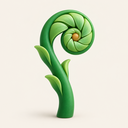
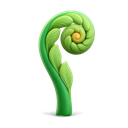
Transparent artwork on the dark page: re-render every image on the page ground and key it out; ceramic Scala hero

Changed region(s): [[0.125, 0.0312, 0.75, 0.9688]]

diff --git a/scripts/art/finish.py b/scripts/art/finish.py
@@ -6,25 +6,79 @@ hero, icon-<id>, divider, codebar, og, favicons. Raw renders are read from scrip
 <asset>.png (git-ignored), as gen.sh leaves them. `og` and `favicons` need Montserrat[wght].ttf and
 SourceSans3[wght].ttf in scripts/art/fonts/ (git-ignored; both are on github.com/google/fonts).
 
-Every render is a cream product plate; nothing is keyed out. Scenes are centre-cropped to their
-aspect and resized with Lanczos to twice their CSS size. Wide strips (divider, code-bar mark) are
-cropped around the subject's bounding box on the cream ground.
+Every render sits on the solid ground the prompt asks for; `key()` turns that ground into
+transparency. Scenes are centre-cropped to their aspect and resized with Lanczos to twice their CSS
+size. Wide strips (divider, code-bar mark) are cropped around what survived the keying.
 """
 import base64
 import io
 import sys
 from pathlib import Path
 
+import numpy as np
 from PIL import Image, ImageDraw, ImageFont
 
 S = str(Path(__file__).resolve().parent) + "/"
 P = str(Path(__file__).resolve().parents[2] / "public") + "/"
-CREAM = (244, 239, 230)
-INK = (11, 61, 46)  # deep green, the site's dark text on cream
+GROUND = (15, 36, 24)  # the solid ground every prompt asks for; keyed out below
+PAGE = (7, 22, 15)  # --bg, for the share image and favicon tiles, which cannot be transparent
+INK = (234, 244, 234)  # --fg
+MUTED = (167, 193, 174)  # --muted
 
 
 def load(name):
-    return Image.open(f"{S}gen/{name}/{name}.png").convert("RGB")
+    """The raw render, shifted so its ground is exactly GROUND: the model lands a unit or two off,
+    which would leave the keyed edge a shade off."""
+    im = Image.open(f"{S}gen/{name}/{name}.png").convert("RGB")
+    px = im.load()
+    W, H = im.size
+    edge = [px[x, y] for x in range(0, W, 8) for y in (0, H - 1)] + [px[x, y] for y in range(0, H, 8) for x in (0, W - 1)]
+    median = tuple(sorted(c[i] for c in edge)[len(edge) // 2] for i in range(3))
+    shift = tuple(GROUND[i] - median[i] for i in range(3))
+    if any(shift):
+        im = Image.merge("RGB", [ch.point(lambda v, d=d: max(0, min(255, v + d))) for ch, d in zip(im.split(), shift)])
+    return key(im)
+
+
+def key(im, t0=4, t1=48):
+    """Ground to transparency. Alpha grows with the colour distance from GROUND between t0 and t1,
+    but only in the region connected to the frame edge, so a dark pixel inside a leaf stays put.
+    The colour is un-mixed from the ground so the soft edge does not carry a green fringe; a contact
+    shadow, darker than the ground, comes out as faint black, which is what a shadow is."""
+    rgb = np.asarray(im, dtype=np.float32)
+    g = np.array(GROUND, dtype=np.float32)
+    d = np.abs(rgb - g).max(axis=2)
+    # `.copy()`: an image made from an array is read-only and floodfill then does nothing.
+    near = Image.fromarray(((d < t1) * 255).astype(np.uint8)).copy()
+    W, H = im.size
+    for x in range(0, W, 16):
+        for y in (0, H - 1):
+            if near.getpixel((x, y)) == 255:
+                ImageDraw.floodfill(near, (x, y), 128)
+    for y in range(0, H, 16):
+        for x in (0, W - 1):
+            if near.getpixel((x, y)) == 255:
+                ImageDraw.floodfill(near, (x, y), 128)
+    # Enclosed pockets of ground (a trellis opening, the inside of a hoop) are keyed too, when they
+    # are bigger than a sliver; a small dark patch inside a leaf is shading and stays.
+    pocket = W * H // 2000
+    while True:
+        rest = np.argwhere(np.asarray(near) == 255)
+        if len(rest) == 0:
+            break
+        y, x = rest[0]
+        before = (np.asarray(near) == 255).sum()
+        ImageDraw.floodfill(near, (int(x), int(y)), 64)
+        filled = before - (np.asarray(near) == 255).sum()
+        if filled > pocket:
+            ImageDraw.floodfill(near, (int(x), int(y)), 128)
+    ground = np.asarray(near) == 128
+    a = np.clip((d - t0) / (t1 - t0), 0, 1)
+    a = np.where(ground, a, 1.0)
+    safe = np.maximum(a, 1e-3)[..., None]
+    unmixed = (rgb - (1 - a)[..., None] * g) / safe
+    out = np.dstack([np.clip(unmixed, 0, 255), a * 255]).astype(np.uint8)
+    return Image.fromarray(out, "RGBA")
 
 
 def crop_aspect(im, w, h):
@@ -37,18 +91,9 @@ def crop_aspect(im, w, h):
     return im.crop((0, (H - ch) // 2, W, (H - ch) // 2 + ch))
 
 
-def subject_box(im, tol=18):
-    """Bounding box of everything that is not the cream ground."""
-    px = im.load()
-    W, H = im.size
-    xs, ys = [], []
-    for y in range(0, H, 2):
-        for x in range(0, W, 2):
-            r, g, b = px[x, y]
-            if abs(r - CREAM[0]) + abs(g - CREAM[1]) + abs(b - CREAM[2]) > tol:
-                xs.append(x)
-                ys.append(y)
-    return min(xs), min(ys), max(xs) + 1, max(ys) + 1
+def subject_box(im):
+    """Bounding box of everything that survived the keying."""
+    return im.getchannel("A").point(lambda v: 255 if v > 8 else 0).getbbox()
 
 
 def strip(im, w, h, pad):
@@ -64,7 +109,7 @@ def strip(im, w, h, pad):
         nw = bh * w // h
         x0 -= (nw - bw) // 2
         x1 = x0 + nw
-    out = Image.new("RGB", (x1 - x0, y1 - y0), CREAM)
+    out = Image.new("RGBA", (x1 - x0, y1 - y0), (0, 0, 0, 0))
     out.paste(im, (-x0, -y0))
     return out.resize((w, h), Image.LANCZOS)
 
@@ -101,32 +146,35 @@ def font(file, size, weight):
 
 
 def og():
-    """1200x630: the hero plate on the left, the title and tagline on the right."""
-    art = Image.open(f"{P}art/hero.png").convert("RGB").resize((520, 520), Image.LANCZOS)
-    out = Image.new("RGB", (1200, 630), CREAM)
-    out.paste(art, (40, 55))
+    """1200x630: the hero on the left, the title and tagline on the right, on the page colour."""
+    art = Image.open(f"{P}art/hero.png").convert("RGBA").resize((520, 520), Image.LANCZOS)
+    out = Image.new("RGB", (1200, 630), PAGE)
+    out.paste(art, (40, 55), art)
     d = ImageDraw.Draw(out)
     title = font("Montserrat[wght].ttf", 64, 700)
     sub = font("SourceSans3[wght].ttf", 34, 400)
     x, y = 590, 190
     d.text((x, y), "VirtusLab", font=title, fill=INK)
     d.text((x, y + 76), "Scala Stack", font=title, fill=INK)
-    d.text((x, y + 172), "Direct-style Scala: type-safe code", font=sub, fill=(70, 90, 80))
-    d.text((x, y + 214), "that is easy to comprehend and generate.", font=sub, fill=(70, 90, 80))
+    d.text((x, y + 172), "Direct-style Scala: type-safe code", font=sub, fill=MUTED)
+    d.text((x, y + 214), "that is easy to comprehend and generate.", font=sub, fill=MUTED)
     save(out, "og.png")
 
 
 def favicons():
-    """The logo part of the hero, square, on the cream plate: 32 PNG, 180 apple, 64 in the SVG."""
+    """The wooden-slab mark of the hero, square, on a page-coloured tile: 32 PNG, 180 apple, 64 in
+    the SVG. The branch is left out: at 32px it would be a smudge across the mark."""
     src = load("hero")
-    # The lower half only: the wooden bars are the mark, the thin branch would be a smudge at 32px.
-    W, H = src.size
-    x0, y0, x1, y1 = subject_box(src.crop((0, H * 45 // 100, W, H)))
-    y0, y1 = y0 + H * 45 // 100, y1 + H * 45 // 100
-    side = max(x1 - x0, y1 - y0) + 80
+    a = np.asarray(src)
+    # The slabs are the only pale material in the render.
+    pale = (a[..., 3] > 128) & (a[..., :3].min(axis=2) > 170)
+    ys, xs = np.nonzero(pale)
+    x0, y0, x1, y1 = xs.min(), ys.min(), xs.max() + 1, ys.max() + 1
+    side = max(x1 - x0, y1 - y0) + 60
     cx, cy = (x0 + x1) // 2, (y0 + y1) // 2
-    tile = Image.new("RGB", (side, side), CREAM)
-    tile.paste(src, (side // 2 - cx, side // 2 - cy))
+    mark = src.crop((x0 - 20, y0 - 20, x1 + 20, y1 + 20))
+    tile = Image.new("RGB", (side, side), PAGE)
+    tile.paste(mark, (side // 2 - (cx - x0 + 20), side // 2 - (cy - y0 + 20)), mark)
     save(tile.resize((32, 32), Image.LANCZOS), "favicon-32.png")
     save(tile.resize((180, 180), Image.LANCZOS), "apple-touch-icon.png")
     buf = io.BytesIO()

diff --git a/docs/art-direction.md b/docs/art-direction.md
@@ -1,14 +1,16 @@
 # Art direction
 
-Every illustration is a rendered PNG on its own solid cream ground, a "plate", exported at exactly
-2x its CSS size and given its corners by the shared `.plate` class. `docs/design-direction.md` still
-governs the interface; this file governs the images.
+Every illustration is a transparent PNG exported at exactly 2x its CSS size: rendered on a solid
+`#0f2418` ground and keyed to transparency by the finishing script, so the subject and its soft
+shadow sit directly on the page. `docs/design-direction.md` still governs the interface; this file
+governs the images.
 
 ## Theme
 
 Trees and plants. Clean 3D computer graphics: sharp, simple, a product-render look under soft studio
-light. VirtusLab greens, warm wood, on a cream `#f4efe6` ground. No text, logos, people, animals or
-mascots.
+light. VirtusLab greens, warm wood, pale `#f4efe6` as a light material, rendered on a solid `#0f2418`
+ground that is keyed out, leaving only the subject and its contact shadow. No text, logos, people,
+animals or mascots.
 
 ## Assets
 
@@ -28,8 +30,8 @@ mascots.
 | `public/art/icon-devops.png` | 128×128 | 64×64 | trellis with a climbing vine |
 | `public/art/divider.png` | 640×96 | 320×48 | a horizontal branch with leaves |
 | `public/art/codebar.png` | 132×44 | 66×22 (`--mark`) | a three-leaf sprig |
-| `public/og.png` | 1200×630 | share card | the hero plate plus the title set in Montserrat |
-| `public/favicon.svg`, `favicon-32.png`, `apple-touch-icon.png` (180) | — | favicons | the logo part of the hero on a cream tile |
+| `public/og.png` | 1200×630 | share card | the hero render plus the title set in Montserrat, on the page colour `#07160f` |
+| `public/favicon.svg`, `favicon-32.png`, `apple-touch-icon.png` (180) | — | favicons | the slab mark of the hero, branch left out, on a `#07160f` tile |
 
 ## Process
 
@@ -37,9 +39,13 @@ Everything lives in `scripts/art/`: `theme.md` is the block every prompt starts 
 the subject of each image, `gen.sh <asset> <WxH>` one render through the Codex CLI's image tool into
 the git-ignored `gen/`, and `finish.py <asset>...` the step from a raw render to `public/`: centre-crop
 to the target aspect, Lanczos-resize to 2x; the divider and code bar are first cropped around the
-subject's bounding box on the cream ground. `og` composes the hero plate with the title in Montserrat
-and `favicons` cuts the logo part of the hero onto a cream tile (both need the two variable fonts in
-`fonts/`, see the script). Renders come out at 1024 or 1536 on the long side.
+subject's bounding box after keying. `og` composes the hero render with the title in Montserrat
+and `favicons` cuts the slab mark of the hero onto a `#07160f` tile (both need the two variable fonts
+in `fonts/`, see the script). Renders come out at 1024 or 1536 on the long side.
+
+- `finish.py` keys the ground out: alpha comes from each pixel's colour distance to the ground, the
+  ground's contribution is un-mixed from the colour, and only regions connected to the border are
+  keyed, so interior pixels near the ground colour stay opaque.
 
 Each benefit concept came from a fresh ideation agent given only the theme, the subject and a
 random-string inspiration procedure; a critique agent then revised it. The prompt files are the
@@ -49,6 +55,6 @@ result.
 
 - Reads at its final CSS size.
 - One subject, nothing else in the frame.
-- Solid cream ground, edge to edge.
+- Rendered on the solid ground, nothing touching the frame edge except the divider's branch.
 - No text.
 - On theme: trees and plants, the render look, the palette.

diff --git a/docs/design-direction.md b/docs/design-direction.md
@@ -8,7 +8,7 @@ and no hex appears outside that file.
 Forest green, VirtusLab's. Clean geometry and a lot of empty space on a deep forest green-black
 ground, bright VL green as the signature accent, amber used sparingly. Dark only: no light
 variant, whatever the OS asks for. The interface is clean and modern; the artwork is clean 3D
-renders of trees and plants on cream plates, so the two share one register. One soft shadow, one
+renders of trees and plants sitting directly on the page, so the two share one register. One soft shadow, one
 green rule.
 
 ## Chapters
@@ -23,10 +23,10 @@ the gutter never changes; below 720px the illustration stacks above.
 
 ## The motif: trees and plants
 
-Wood and leaves are already the palette: VirtusLab greens and warm wood on a cream ground. Growth,
+Wood and leaves are already the palette: VirtusLab greens and warm wood on the forest ground. Growth,
 grafting and pruning give every benefit a concrete subject. The motif carries the hero (the Scala
 logo as stacked wooden bars with a branch growing from it), the six section icons, the five benefit
-plates, the code panel's mark and the favicon — not the Visdom block, which is no part of the free
+illustrations, the code panel's mark and the favicon — not the Visdom block, which is no part of the free
 stack.
 
 ## Palette
@@ -47,7 +47,7 @@ Grounds: `--bg` `#07160f`, `--surface` `#0f2418`. `--on-accent` on a solid `--ac
 hovered cell `--surface-2-hover` `#1b3f29`; on the worse of the two, `--muted` is 6.08 and
 `--accent` 7.22.
 
-The artwork has no tokens: each plate carries its own colours and nothing recolours it. Text on
+The artwork has no tokens: each image carries its own colours and nothing recolours it. Text on
 the two `--ground` washes clears 4.5:1 too (worst 7.79, `--muted` on `#062d19`).
 
 ## Type
@@ -65,8 +65,8 @@ the two `--ground` washes clears 4.5:1 too (worst 7.79, `--muted` on `#062d19`).
 - Spacing `4 / 8 / 16 / 28 / 48 / 72`px. Borders `--border` 1px, `--border-thick` 2px (also the focus
   ring), `--rule` 3px for the green mark. Page container 62rem. Sizes are tokens too.
 - Radius `--radius-sm` 8, `--radius` 14, `--radius-pill`, and `--radius-lg` 26 on the code panel
-  alone. Nothing has a square corner: the artwork takes `--radius` through `.plate`, the section
-  icons `--radius-sm`. Illustration sizes: `--icon` 64, `--mark` 22.
+  alone. Nothing has a square corner; the artwork is transparent and has none to round. Illustration
+  sizes: `--icon` 64, `--mark` 22.
 - `.panel` is the one surface rule — hairline, radius, `--shadow-soft` — and the only use of that
   name: a scoped `.panel` elsewhere still matches it and doubles the hairline, which is why the
   snippet panels are `.snippet-panel`. `--shadow-lift` is it raised: the code panel at rest, cards
@@ -76,8 +76,8 @@ the two `--ground` washes clears 4.5:1 too (worst 7.79, `--muted` on `#062d19`).
 
 ## Motifs
 
-Art is rendered PNG plates in `public/art/`, each on its own cream ground at 2x its CSS size, given
-its corners by the shared `.plate` class; see `docs/art-direction.md`. All are decorative.
+Art is transparent rendered PNGs in `public/art/`, each at 2x its CSS size, the subject and its soft
+shadow sitting directly on the page; see `docs/art-direction.md`. All are decorative.
 
 - `HeroArt.astro` — `art/hero.png`, shown at 320×320 at both widths.
 - `SectionIcon.astro` — `art/icon-<section>.png`, shown at `--icon`; `BenefitArt.astro` —

diff --git a/scripts/art/prompts/benefit-structured-concurrency.md b/scripts/art/prompts/benefit-structured-concurrency.md
@@ -1,1 +1,1 @@
-SUBJECT (4:3 landscape scene): A single young sapling stands centred on a cream ground, warm-brown trunk rising from a small soft contact shadow. Halfway up it forks into three short leaf-green branches; the right-hand one forks again into two bright-mint twigs. Two thin, smooth, matte deep-green hoops lie flat in the picture plane, facing the viewer like picture frames: a large rounded-rectangle hoop framing the whole crown with every branch tip ending clearly inside it, and a smaller hoop framing only the right-hand sub-fork, sitting fully inside the large one. One branch on the left ends in a short, clearly visible stub with a flat amber cut face, stopping a finger's width before the large hoop's inner edge. Matte plastic-smooth materials, soft studio light from upper left, crisp edges, generous empty cream space on both sides, no background scenery. Plain solid cream #f4efe6 background.
+SUBJECT (4:3 landscape scene): A single young sapling stands centred on a dark ground, warm-brown trunk rising from a small soft contact shadow. Halfway up it forks into three short leaf-green branches; the right-hand one forks again into two bright-mint twigs. Two thin, smooth, matte bright-mint hoops lie flat in the picture plane, facing the viewer like picture frames: a large rounded-rectangle hoop framing the whole crown with every branch tip ending clearly inside it, and a smaller hoop framing only the right-hand sub-fork, sitting fully inside the large one. One branch on the left ends in a short, clearly visible stub with a flat amber cut face, stopping a finger's width before the large hoop's inner edge. Matte plastic-smooth materials, soft studio light from upper left, crisp edges, generous empty dark space on both sides, no background scenery. Plain solid deep forest green #0f2418 background.

diff --git a/scripts/art/prompts/benefit-mature-platform.md b/scripts/art/prompts/benefit-mature-platform.md
@@ -1,1 +1,1 @@
-SUBJECT (4:3 landscape scene): A single broad, low tree stump, cut flat and seen from slightly above and to the front so the top face fills most of the frame. The cut surface is weathered and smooth, not fresh: about twelve bold concentric growth rings in alternating warm wood browns, pale honey at the centre to deep chestnut at the edge, with a silvered, softly rounded rim where the bark has aged. Moss in leaf green softly cushions the base of the stump and a few small green shoots and a fern sprout around its foot, showing it has stood a long time. From the exact centre of the rings a slim sapling rises, one leaf-green stem with three rounded bright-mint leaves, glossy but not reflective. Plain solid cream #f4efe6 background, soft studio contact shadow, faint warm shadow of the sapling across the rings. Smooth matte materials, soft light from upper left, no other objects.
+SUBJECT (4:3 landscape scene): A single broad, low tree stump, cut flat and seen from slightly above and to the front so the top face fills most of the frame. The cut surface is weathered and smooth, not fresh: about twelve bold concentric growth rings in alternating warm wood browns, pale honey at the centre to deep chestnut at the edge, with a silvered, softly rounded rim where the bark has aged. Moss in leaf green softly cushions the base of the stump and a few small green shoots and a fern sprout around its foot, showing it has stood a long time. From the exact centre of the rings a slim sapling rises, one leaf-green stem with three rounded bright-mint leaves, glossy but not reflective. Plain solid deep forest green #0f2418 background, soft studio contact shadow, faint warm shadow of the sapling across the rings. Smooth matte materials, soft light from upper left, no other objects.

diff --git a/scripts/art/prompts/hero.md b/scripts/art/prompts/hero.md
@@ -1,1 +1,1 @@
-SUBJECT (square): The Scala programming language logo (three stacked, right-leaning bars forming a curved staircase) reinterpreted as a living tree: the three bars are smooth matte wood in warm brown with a hint of deep green grain. Out of the top bar grows one LONG, slender, winding tree branch, at least as long as the logo is tall, curling upward and sideways in two or three elegant loose S-curves, tapering to a fine tip and carrying a few small leaf-green and bright-mint leaves spaced along its length. The logo sits in the lower left, the branch fills the upper right. Isolated, floating with a soft contact shadow, on a plain solid #f4efe6 cream background. No text.
+SUBJECT (square, the site's hero; the one logo allowed here is the Scala logo): Centre: the Scala programming-language logo as three stacked, right-leaning, gently curved slabs in smooth matte cream #f4efe6 ceramic with softly rounded edges, tightly spaced like the real logo, filling about 55% of the frame height. One long, thin, smooth warm-brown wooden branch (matte, no bark texture, about a fifth of a slab's thickness) enters from the lower-left corner, sweeps in a wide S-curve: passes in front of the bottom slab, disappears behind the middle slab, re-emerges in front of the top slab, and continues in a lazy arc toward the upper-right corner, tapering to a fine tip. Six to eight small leaf-green and bright-mint leaves grow from the branch only in the open space outside the slabs, never covering them; one tiny amber bud at the tip. Soft top-left studio light, gentle contact shadows where the branch touches the slabs. Clean product-render look, generous empty space around. Plain solid deep forest green #0f2418 background, edge to edge, no scenery.

diff --git a/scripts/art/prompts/benefit-direct-style.md b/scripts/art/prompts/benefit-direct-style.md
@@ -1,1 +1,1 @@
-SUBJECT (4:3 landscape scene): A single upright plant stem, pencil-thick and perfectly straight, smooth matte deep green, centred and filling two-thirds of the height, rising directly from a plain cream ground with no roots or pot. Seven identical rounded oval leaves in leaf green grow from it, alternating left and right, evenly spaced like rungs, all the same size and angled the same way. At the tip, one small closed bright mint bud pointing straight up. On the ground to the right of the base lies a small loose knot of thin, dry, twisted tendril in warm wood brown, coiled over itself like discarded string, about a quarter of the stem's height and clearly separate from it. Soft studio lighting from the upper left, gentle contact shadows under stem and knot. Plain solid cream #f4efe6 background, nothing else in frame.
+SUBJECT (4:3 landscape scene): A single upright plant stem, pencil-thick and perfectly straight, smooth matte leaf green, centred and filling two-thirds of the height, rising directly from a plain dark ground with no roots or pot. Seven identical rounded oval leaves in leaf green grow from it, alternating left and right, evenly spaced like rungs, all the same size and angled the same way. At the tip, one small closed bright mint bud pointing straight up. On the ground to the right of the base lies a small loose knot of thin, dry, twisted tendril in warm wood brown, coiled over itself like discarded string, about a quarter of the stem's height and clearly separate from it. Soft studio lighting from the upper left, gentle contact shadows under stem and knot. Plain solid deep forest green #0f2418 background, nothing else in frame.

diff --git a/scripts/art/prompts/benefit-type-safety.md b/scripts/art/prompts/benefit-type-safety.md
@@ -1,1 +1,1 @@
-SUBJECT (4:3 landscape scene): Cream studio background. Centre, one open seed pod lies flat, split lengthwise like a bean pod, tilted slightly toward the camera: a smooth matte deep-green half-shell. Inside are only three socket cavities in a row: circle, hexagon, circle. The two circular sockets hold warm wood-brown seeds seated flush, with a small amber sheen. The middle hexagonal socket is empty and clearly larger than the others. Above it hovers a bright-mint sphere, plainly the wrong shape, casting a soft contact shadow into the empty hexagon. Soft studio key light from upper left, gentle ambient occlusion in the sockets. No other objects; wide negative space on the right and top. Simple, bold forms sized to read clearly at thumbnail scale. Plain solid cream #f4efe6 background.
+SUBJECT (4:3 landscape scene): Plain solid deep forest green #0f2418 background. Centre, one open seed pod lies flat, split lengthwise like a bean pod, tilted slightly toward the camera: a smooth matte leaf-green half-shell. Inside are only three socket cavities in a row: circle, hexagon, circle. The two circular sockets hold warm wood-brown seeds seated flush, with a small amber sheen. The middle hexagonal socket is empty and clearly larger than the others. Above it hovers a bright-mint sphere, plainly the wrong shape, casting a soft contact shadow into the empty hexagon. Soft studio key light from upper left, gentle ambient occlusion in the sockets. No other objects; wide negative space on the right and top. Simple, bold forms sized to read clearly at thumbnail scale. Plain solid deep forest green #0f2418 background.

diff --git a/scripts/art/prompts/benefit-no-lock-in.md b/scripts/art/prompts/benefit-no-lock-in.md
@@ -1,1 +1,1 @@
-SUBJECT (4:3 landscape scene): A single stylised young tree, centred on a plain cream background. A short, straight trunk in smooth matte warm-brown, planted in a soft mint-green disc, with three simple ring-shaped sockets at even intervals. Two sockets hold smooth rounded branches in deep green with a few leaf-shaped paddles. The middle socket holds a branch of exactly the same shape but in matte amber wood, already seated and clearly a different material. To the right, separated by a clear gap, one deep-green branch stands upright on its own, planted in its own small mint disc, complete and healthy without the tree. No floating parts, no motion. Soft studio lighting from the upper left, gentle contact shadows, crisp clean edges, no text. Plain solid cream #f4efe6 background.
+SUBJECT (4:3 landscape scene): A single stylised young tree, centred on the plain solid deep forest green #0f2418 background. A short, straight trunk in smooth matte warm-brown, planted in a soft mint-green disc, with three simple ring-shaped sockets at even intervals. Two sockets hold smooth rounded branches in leaf green with a few leaf-shaped paddles. The middle socket holds a branch of exactly the same shape but in matte amber wood, already seated and clearly a different material. To the right, separated by a clear gap, one leaf-green branch stands upright on its own, planted in its own small mint disc, complete and healthy without the tree. No floating parts, no motion. Soft studio lighting from the upper left, gentle contact shadows, crisp clean edges, no text. Plain solid deep forest green #0f2418 background.

diff --git a/scripts/art/theme.md b/scripts/art/theme.md
@@ -2,5 +2,6 @@ THEME (applies to every image on the site):
 - Motif: trees and plants. Branches, leaves, roots, seeds, saplings, rings of a trunk, bark, vines.
 - Look: clean 3D computer graphics. Sharp, crisp, nicely rendered, simple. A modern product-style render: smooth matte materials, soft studio lighting from the upper left, gentle contact shadows, subtle ambient occlusion. Not faceted low-poly, not pixel art, not hand-painted, not photoreal, not clip-art flat vector.
 - Composition: one clear subject, few elements, generous negative space. Readable at 320 px wide.
-- Palette: VirtusLab greens (deep green #0b3d2e, leaf green #00a24c, bright mint #67e387), warm wood browns, cream #f4efe6. A small amber #f0b756 accent is allowed. Plain background: solid cream or transparent. No scenery, sky, horizon or ground clutter.
+- Ground: every image sits on a plain, solid, deep forest green background, exactly #0f2418, edge to edge. No scenery, sky, horizon, floor plane or vignette; the only thing on the ground is a soft contact shadow.
+- Palette for the forms: leaf green #00a24c, bright mint #67e387, warm wood browns, cream #f4efe6 as a light material. A small amber #f0b756 accent is allowed. Forms must stand out clearly against the dark ground: no dark or deep-green main shapes, no black.
 - Forbidden: text, letters, numbers, logos (unless the brief says so), people, animals, mascots, faces, hands.

diff --git a/scripts/art/prompts/divider.md b/scripts/art/prompts/divider.md
@@ -1,1 +1,1 @@
-SUBJECT (wide landscape): A single slender tree branch running horizontally across the entire width of the frame, centred vertically, gently curving, in smooth matte warm wood brown, with six small simple leaves in leaf green and bright mint spaced along it, alternating above and below. The branch tapers toward the right end. Nothing else; large empty cream areas above and below. Plain solid cream #f4efe6 background, soft studio light from upper left, a faint shadow under the branch.
+SUBJECT (wide landscape): A single slender tree branch running horizontally across the entire width of the frame, centred vertically, gently curving, in smooth matte warm wood brown, with six small simple leaves in leaf green and bright mint spaced along it, alternating above and below. The branch tapers toward the right end. Nothing else; large empty dark areas above and below. Plain solid deep forest green #0f2418 background, soft studio light from upper left, a faint shadow under the branch.

diff --git a/scripts/art/prompts/icon-backend.md b/scripts/art/prompts/icon-backend.md
@@ -1,1 +1,1 @@
-SUBJECT (square icon, one object, centred, filling about 70% of the frame, bold simple silhouette readable at 64 px): A short thick tree trunk in warm brown, cut off at the top, with a broad spreading root system below in slightly darker brown, seen slightly from above, roots fanning out in all directions on the cream ground. Plain solid cream #f4efe6 background, soft studio light from upper left, gentle contact shadow.
+SUBJECT (square icon, one object, centred, filling about 70% of the frame, bold simple silhouette readable at 64 px): A short thick tree trunk in warm brown, cut off at the top, with a broad spreading root system below in slightly darker brown, seen slightly from above, roots fanning out in all directions on the dark ground. Plain solid deep forest green #0f2418 background, soft studio light from upper left, gentle contact shadow.
